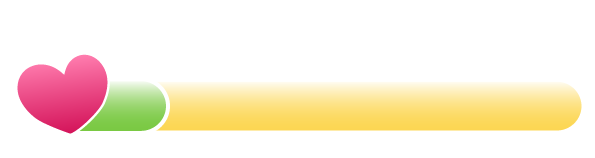
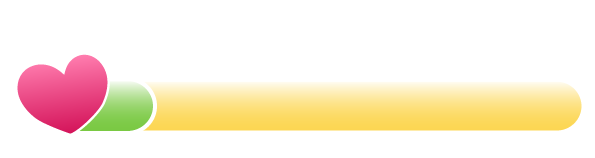
statusbar energy in 10 steps

Changed region(s): [[0.2118, 0.5316, 0.3025, 0.8354]]

diff --git a/models/statusbar.class.js b/models/statusbar.class.js
@@ -2,10 +2,15 @@ class Statusbar extends DrawableObject {
 
     images_energy = [
         'img/7_statusbars/1_statusbar/2_statusbar_health/green/0.png',
+        'img/7_statusbars/1_statusbar/2_statusbar_health/green/10.png',
         'img/7_statusbars/1_statusbar/2_statusbar_health/green/20.png',
+        'img/7_statusbars/1_statusbar/2_statusbar_health/green/30.png',
         'img/7_statusbars/1_statusbar/2_statusbar_health/green/40.png',
+        'img/7_statusbars/1_statusbar/2_statusbar_health/green/50.png',
         'img/7_statusbars/1_statusbar/2_statusbar_health/green/60.png',
+        'img/7_statusbars/1_statusbar/2_statusbar_health/green/70.png',
         'img/7_statusbars/1_statusbar/2_statusbar_health/green/80.png',
+        'img/7_statusbars/1_statusbar/2_statusbar_health/green/90.png',
         'img/7_statusbars/1_statusbar/2_statusbar_health/green/100.png'
     ];
 
@@ -105,7 +110,12 @@ class Statusbar extends DrawableObject {
     setPercentage(current, max = 100) {
         this.percentage = (current / max) * 100;
         this.max = max;
-        const path = this.currentImages[this.resolveImageIndex()];
+        let path = ''
+        if(this.type == 'energy'){
+            path = this.currentImages[this.resolveImageIndexHealth()];
+        }else{
+            path = this.currentImages[this.resolveImageIndex()];
+        }
         this.img = this.imageCache[path];
     }
 
@@ -114,6 +124,31 @@ class Statusbar extends DrawableObject {
      * 
      * @returns {number} Image index (0-5) corresponding to percentage ranges
      */
+    resolveImageIndexHealth() {
+        if (this.percentage == 0) {
+            return 0;
+        } else if (this.percentage == 10) {
+            return 1
+        } else if (this.percentage == 20) {
+            return 2
+        } else if (this.percentage == 30) {
+            return 3
+        } else if (this.percentage == 40) {
+            return 4
+        } else if (this.percentage == 50) {
+            return 5
+        } else if (this.percentage == 60) {
+            return 6
+        } else if (this.percentage == 70) {
+            return 7
+        } else if (this.percentage == 80) {
+            return 8
+        } else if (this.percentage == 90) {
+            return 9
+        } else {
+            return 10
+        }
+    }
     resolveImageIndex() {
         if (this.percentage == 0) {
             return 0;

diff --git a/models/world.class.js b/models/world.class.js
@@ -323,10 +323,10 @@ class World {
      */
     drawGameObjects() {
         this.ctx.translate(this.camera_x, 0);
-        this.addObjectsToMap(this.level.coins);
-        this.addObjectsToMap(this.level.bottles);
         this.addObjectsToMap(this.level.endboss);
         this.addObjectsToMap(this.level.enemies);
+        this.addObjectsToMap(this.level.coins);
+        this.addObjectsToMap(this.level.bottles);
         this.addToMap(this.character);
         this.addObjectsToMap(this.throwableObjects);
         this.ctx.translate(-this.camera_x, 0);

diff --git a/models/endboss.class.js b/models/endboss.class.js
@@ -1,9 +1,9 @@
 class Endboss extends MovableObject {
-    x = 1000;
+    x = 1500;
     y = 140;
     width = 250;
     height = 300;
-    speed = 0.5
+    speed = 1
     images_alert = [
         'img/4_enemie_boss_chicken/2_alert/G5.png',
         'img/4_enemie_boss_chicken/2_alert/G6.png',

diff --git a/levels/level1.js b/levels/level1.js
@@ -3,7 +3,7 @@ let level1;
 function createLevel() {
     return new Level(
         [
-            ...createElements('chicken', 3, 300, 50),
+            ...createElements('chicken', 5, 300, 50),
             ...createElements('chickensmall', 3, 300, 50),
         ],
         [
